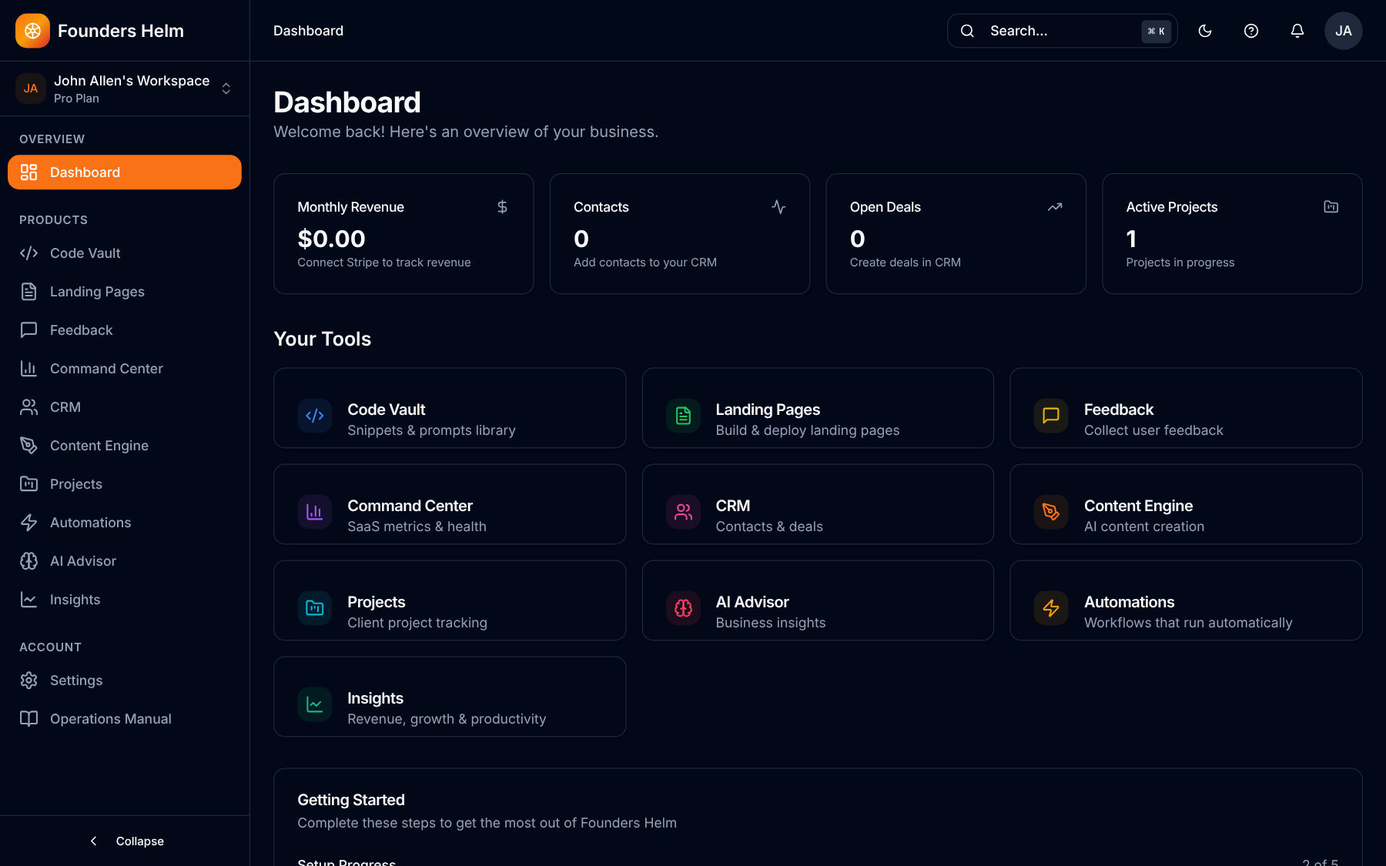
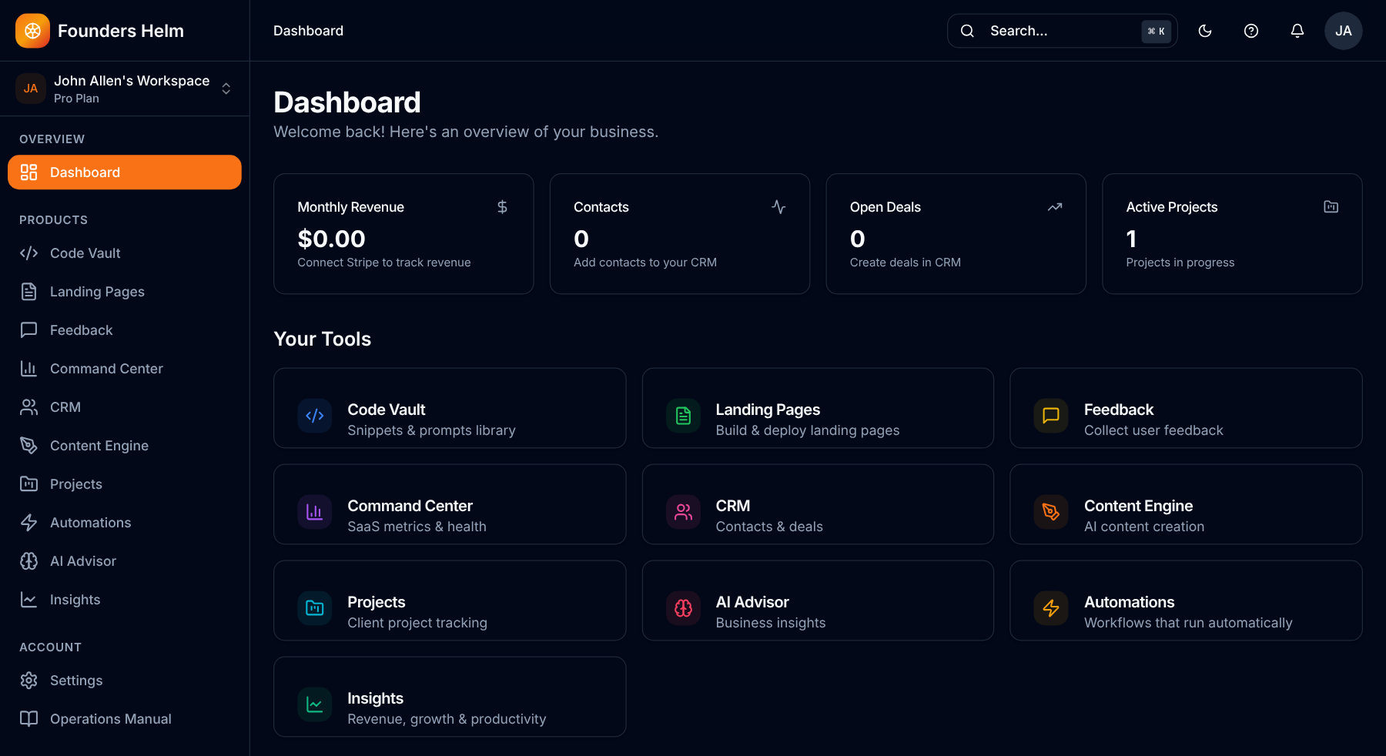
Enlarge chapter text and rebalance layouts
Standardize responsive chapter typography and give text more room beside code and screens. Wrap long code lines to avoid inaccessible horizontal scrolling, update the Founders Helm crop, and align e2e geometry and project guidance.

diff --git a/src/scenes/ProductChapter.jsx b/src/scenes/ProductChapter.jsx
@@ -8,6 +8,7 @@ import MediaLoop from '../components/MediaLoop.jsx';
 import { chapterTimeline } from './chapterTimeline.js';
 import { useSectionProgress } from './useSectionProgress.js';
 import { DESKTOP_MIN_WIDTH, EditorPanel, FlightEditor, flightGeometry, useImageFlight } from './flight.jsx';
+import { CHAPTER_BODY, CHAPTER_GRID, CHAPTER_LABEL, CHAPTER_TITLE } from './chapterType.js';
 
 /** @typedef {import('../content/excerpts/index.js').Excerpt} Excerpt */
 /** @typedef {(typeof products)[number]} Product */
@@ -58,11 +59,11 @@ export function countText(value, t) {
  */
 function Status({ product }) {
   if (product.status !== 'live' || !product.url) {
-    return <p className="mono mt-5 text-[11px] uppercase tracking-[0.25em] text-white/50">Coming soon</p>;
+    return <p className={`mt-5 tracking-[0.25em] text-white/60 ${CHAPTER_LABEL}`}>Coming soon</p>;
   }
   return (
     <div className="mt-5 flex flex-wrap items-center gap-x-5 gap-y-2">
-      <span className="mono flex items-center gap-2 text-[11px] uppercase tracking-[0.25em] text-white/70">
+      <span className={`flex items-center gap-2 tracking-[0.25em] text-white/70 ${CHAPTER_LABEL}`}>
         <span data-live-dot aria-hidden="true" className="relative flex h-2 w-2">
           <span className="absolute inline-flex h-full w-full rounded-full bg-ember opacity-60 motion-safe:animate-ping" />
           <span className="relative inline-flex h-2 w-2 rounded-full bg-ember" />
@@ -73,7 +74,7 @@ function Status({ product }) {
         href={product.url}
         target="_blank"
         rel="noopener noreferrer"
-        className="mono text-[11px] uppercase tracking-[0.25em] text-ember underline-offset-4 hover:underline focus-visible:underline"
+        className={`tracking-[0.25em] text-ember underline-offset-4 hover:underline focus-visible:underline ${CHAPTER_LABEL}`}
       >
         Open live site<span aria-hidden="true"> ↗</span>
         <span className="sr-only"> (opens in a new tab)</span>
@@ -91,20 +92,20 @@ function ProductText({ product, countT, compact = false }) {
   const stats = (product.stats ?? []).slice(0, COUNTERS_SHOWN);
   return (
     <div>
-      <h2 className="font-serif-display text-4xl italic leading-tight text-white sm:text-5xl">{product.name}</h2>
-      {!compact && <p className="mt-4 max-w-xl text-white/65">{product.tagline}</p>}
+      <h2 className={CHAPTER_TITLE}>{product.name}</h2>
+      {!compact && <p className={`mt-4 max-w-xl lg:max-w-none ${CHAPTER_BODY}`}>{product.tagline}</p>}
       <Status product={product} />
       {stats.length > 0 && (
         <ul className={`mt-6 grid border-t border-white/10 pt-5 ${compact ? 'grid-cols-4 gap-3' : 'grid-cols-2 gap-x-8 gap-y-5'}`}>
           {stats.map((stat) => (
             <li key={stat.label}>
-              <span className={`block font-serif-display leading-none text-white ${compact ? 'text-2xl' : 'text-4xl'}`}>
+              <span className={`block font-serif-display leading-none text-white ${compact ? 'text-2xl' : 'text-4xl lg:text-[length:clamp(2.25rem,min(3.3vw,6vh),3.75rem)]'}`}>
                 <span data-counter aria-hidden="true">
                   {countText(stat.number, countT)}
                 </span>
                 <span className="sr-only">{stat.number}</span>
               </span>
-              <span className="mono mt-2 block text-[10px] uppercase tracking-[0.2em] text-white/60">{stat.label}</span>
+              <span className={`mt-2 block tracking-[0.2em] text-white/60 ${compact ? 'mono text-[10px] uppercase' : CHAPTER_LABEL}`}>{stat.label}</span>
             </li>
           ))}
         </ul>
@@ -172,7 +173,7 @@ function StaticProductChapter({ product, excerpt, loop }) {
   return (
     <section
       data-product={product.slug}
-      className="relative z-10 mx-auto grid max-w-6xl gap-10 px-6 py-16 lg:grid-cols-[0.85fr_1.15fr] lg:items-center lg:px-10"
+      className={`relative z-10 mx-auto grid max-w-6xl gap-10 px-6 py-16 ${CHAPTER_GRID} lg:items-center lg:px-10`}
     >
       <ProductText product={product} countT={1} />
       <div className="min-w-0 space-y-6">
@@ -193,7 +194,7 @@ function ComingSoonChapter({ product, excerpt, animate }) {
   const { progress } = useSectionProgress(sectionRef, animate);
   const typed = TYPED_FROM + (TYPED_TO - TYPED_FROM) * (animate ? clamp01((progress - 0.1) / 0.8) : 1);
   const body = (
-    <div className="relative z-10 mx-auto grid w-full max-w-6xl gap-10 px-6 lg:grid-cols-[0.85fr_1.15fr] lg:items-center lg:px-10">
+    <div className={`relative z-10 mx-auto grid w-full max-w-6xl gap-10 px-6 ${CHAPTER_GRID} lg:items-center lg:px-10`}>
       <ProductText product={product} countT={1} />
       <div className="min-w-0">
         {excerpt && <EditorPanel excerpt={excerpt} visible={Math.round(excerpt.code.length * typed)} cursor />}

diff --git a/src/scenes/ServiceChapters.jsx b/src/scenes/ServiceChapters.jsx
@@ -10,6 +10,7 @@ import { SYNTAX_COLORS, tokenizeLine } from '../field/syntax.js';
 import { auditTimeline, chapterTimeline } from './chapterTimeline.js';
 import { useSectionProgress } from './useSectionProgress.js';
 import { DESKTOP_MIN_WIDTH, EditorPanel, FlightEditor, flightGeometry, useImageFlight } from './flight.jsx';
+import { CHAPTER_BODY, CHAPTER_GRID, CHAPTER_ITEM, CHAPTER_LABEL, CHAPTER_TITLE } from './chapterType.js';
 
 /** @typedef {import('../content/excerpts/index.js').Excerpt} Excerpt */
 /** @typedef {(typeof services)[number]} Service */
@@ -38,19 +39,19 @@ function css(color) {
 function ServiceText({ service, compact = false }) {
   return (
     <div>
-      <h2 className="font-serif-display text-4xl italic leading-tight text-white sm:text-5xl">{service.name}</h2>
-      <p className="mt-5 max-w-xl text-white/65">{service.summary}</p>
+      <h2 className={CHAPTER_TITLE}>{service.name}</h2>
+      <p className={`mt-5 max-w-xl lg:max-w-none ${CHAPTER_BODY}`}>{service.summary}</p>
       {!compact && (
         <ul className="mt-6 space-y-2 border-t border-white/10 pt-6">
           {service.scope.map((item) => (
-            <li key={item} className="flex items-start gap-3 text-sm text-white/55">
-              <span aria-hidden="true" className="mt-2 h-px w-4 shrink-0 bg-ember/70" />
+            <li key={item} className={`flex items-start gap-3 ${CHAPTER_ITEM}`}>
+              <span aria-hidden="true" className="mt-[0.7em] h-px w-4 shrink-0 bg-ember/70" />
               {item}
             </li>
           ))}
         </ul>
       )}
-      <p className="mono mt-6 text-xs uppercase tracking-[0.25em] text-ember">Timeline: {service.timeline}</p>
+      <p className={`mt-6 tracking-[0.25em] text-ember ${CHAPTER_LABEL}`}>Timeline: {service.timeline}</p>
     </div>
   );
 }
@@ -104,7 +105,7 @@ function StaticChapter({ service, excerpt, screen }) {
   return (
     <section
       data-chapter={service.slug}
-      className="relative z-10 mx-auto grid max-w-6xl gap-10 px-6 py-16 lg:grid-cols-[0.85fr_1.15fr] lg:items-center lg:px-10"
+      className={`relative z-10 mx-auto grid max-w-6xl gap-10 px-6 py-16 ${CHAPTER_GRID} lg:items-center lg:px-10`}
     >
       <ServiceText service={service} />
       <div className="min-w-0 space-y-6">
@@ -140,7 +141,7 @@ function AuditChapter({ service, excerpt, animate }) {
       </div>
       <pre
         style={{ fontSize, lineHeight: 1.46 }}
-        className="mono overflow-x-auto py-4 [font-variant-ligatures:none]"
+        className="mono whitespace-pre-wrap py-4 [font-variant-ligatures:none] [overflow-wrap:anywhere]"
       >
         {lines.map((line, row) => {
           const isChecked = row < checked;
@@ -155,7 +156,7 @@ function AuditChapter({ service, excerpt, animate }) {
               <span aria-hidden="true" className={`w-3 shrink-0 ${isChecked ? 'text-ember' : 'text-transparent'}`}>
                 ✓
               </span>
-              <span>
+              <span className="min-w-0">
                 {tokenizeLine(line).map((token, i) => (
                   <span key={i} style={{ color: css(SYNTAX_COLORS[token.kind]) }}>
                     {token.text}
@@ -174,7 +175,7 @@ function AuditChapter({ service, excerpt, animate }) {
     return (
       <section
         data-chapter={service.slug}
-        className="relative z-10 mx-auto grid max-w-6xl gap-10 px-6 py-16 lg:grid-cols-[0.85fr_1.15fr] lg:items-center lg:px-10"
+        className={`relative z-10 mx-auto grid max-w-6xl gap-10 px-6 py-16 ${CHAPTER_GRID} lg:items-center lg:px-10`}
       >
         <ServiceText service={service} />
         <div className="min-w-0">{panel}</div>
@@ -185,7 +186,7 @@ function AuditChapter({ service, excerpt, animate }) {
   return (
     <section ref={sectionRef} data-chapter={service.slug} className="relative h-[180vh]">
       <div className="pin-frame sticky top-0 flex items-center">
-        <div className="relative z-10 mx-auto grid w-full max-w-6xl gap-10 px-6 lg:grid-cols-[0.85fr_1.15fr] lg:items-center lg:px-10">
+        <div className={`relative z-10 mx-auto grid w-full max-w-6xl gap-10 px-6 ${CHAPTER_GRID} lg:items-center lg:px-10`}>
           <ServiceText service={service} />
           <div className="min-w-0">{panel}</div>
         </div>

diff --git a/src/scenes/TemplateChapter.jsx b/src/scenes/TemplateChapter.jsx
@@ -9,6 +9,7 @@ import { usePrefersReducedMotion } from '../field/environment.js';
 import MediaLoop from '../components/MediaLoop.jsx';
 import { useSectionProgress } from './useSectionProgress.js';
 import { DESKTOP_MIN_WIDTH, EditorPanel, FlightEditor, flightGeometry, useImageFlight } from './flight.jsx';
+import { CHAPTER_BODY, CHAPTER_GRID, CHAPTER_LABEL, CHAPTER_TITLE } from './chapterType.js';
 
 /** @typedef {import('../content/excerpts/index.js').Excerpt} Excerpt */
 /** @typedef {(typeof templates)[number]} Template */
@@ -50,16 +51,16 @@ function TemplateText({ template, compact = false }) {
   const [title, kind] = template.name.split(' — ');
   return (
     <div>
-      <p className="mono text-[11px] uppercase tracking-[0.25em] text-ember">{template.category}</p>
-      <h3 className="mt-3 font-serif-display text-4xl italic leading-tight text-white">{title}</h3>
-      <p className="mono mt-1 text-xs uppercase tracking-[0.2em] text-white/50">{kind}</p>
-      {!compact && <p className="mt-4 max-w-md text-white/70">{TEMPLATE_STORIES[template.id]}</p>}
+      <p className={`tracking-[0.25em] text-ember ${CHAPTER_LABEL}`}>{template.category}</p>
+      <h3 className={`mt-3 ${CHAPTER_TITLE}`}>{title}</h3>
+      <p className={`mt-2 tracking-[0.2em] text-white/60 ${CHAPTER_LABEL}`}>{kind}</p>
+      {!compact && <p className={`mt-4 max-w-md lg:max-w-none ${CHAPTER_BODY}`}>{TEMPLATE_STORIES[template.id]}</p>}
       {template.status === 'concept' && !compact && (
-        <p className="mono mt-4 text-[10px] uppercase tracking-[0.2em] text-white/60">Concept preview, coming soon</p>
+        <p className={`mt-4 tracking-[0.2em] text-white/60 ${CHAPTER_LABEL}`}>Concept preview, coming soon</p>
       )}
       <Link
         to={`/contact?template=${template.id}`}
-        className="mono mt-5 inline-flex items-center gap-2 rounded-full border border-ember/60 px-4 py-2 text-[11px] uppercase tracking-widest text-ember hover:bg-ember hover:text-black"
+        className={`mt-5 inline-flex items-center gap-2 rounded-full border border-ember/60 px-4 py-2 tracking-widest text-ember hover:bg-ember hover:text-black lg:px-5 lg:py-2.5 ${CHAPTER_LABEL}`}
       >
         Ask about this template<span aria-hidden="true"> ↗</span>
       </Link>
@@ -70,8 +71,10 @@ function TemplateText({ template, compact = false }) {
 function ChapterHeading() {
   return (
     <div>
-      <p className="mono text-[11px] uppercase tracking-[0.3em] text-ember">{TEMPLATE_CHAPTER.eyebrow}</p>
-      <h2 className="mt-3 font-serif-display text-3xl italic leading-tight text-white sm:text-4xl">{TEMPLATE_CHAPTER.title}</h2>
+      <p className={`tracking-[0.3em] text-ember ${CHAPTER_LABEL}`}>{TEMPLATE_CHAPTER.eyebrow}</p>
+      <h2 className="mt-3 font-serif-display text-3xl italic leading-tight text-white sm:text-4xl lg:text-[length:clamp(2.25rem,min(2.8vw,5vh),3rem)]">
+        {TEMPLATE_CHAPTER.title}
+      </h2>
     </div>
   );
 }
@@ -109,7 +112,7 @@ function TemplateSegment({ template, excerpt, local, active, visible, viewport, 
         <div className={compact ? 'mt-4' : 'mt-10'}>
           <TemplateText template={template} compact={compact} />
         </div>
-        <p className="mono mt-6 text-[11px] tracking-[0.25em] text-white/55">
+        <p className={`mt-6 tracking-[0.25em] text-white/60 ${CHAPTER_LABEL}`}>
           {index + 1} / {count}
         </p>
       </div>
@@ -188,7 +191,7 @@ export default function TemplateChapter({ includeDrafts }) {
     <section data-template-chapter className="relative z-10 mx-auto max-w-6xl space-y-16 px-6 py-16 lg:px-10">
       <ChapterHeading />
       {items.map(({ template, excerpt }) => (
-        <div key={template.id} data-door-b-template={template.id} className="grid gap-10 lg:grid-cols-[0.85fr_1.15fr] lg:items-center">
+        <div key={template.id} data-door-b-template={template.id} className={`grid gap-10 ${CHAPTER_GRID} lg:items-center`}>
           <TemplateText template={template} />
           <div className="min-w-0 space-y-6">
             <EditorPanel excerpt={excerpt} />

diff --git a/e2e/services.spec.js b/e2e/services.spec.js
@@ -66,7 +66,7 @@ test('a chapter with a screen flies its code onto that screen as the visitor scr
   await page.evaluate((y) => window.scrollTo(0, y), Math.round(top + span * 0.5));
   await expect(code).toHaveCSS('opacity', '0');
   const { width, height } = page.viewportSize() ?? { width: 0, height: 0 };
-  const stage = { x: Math.round(width * 0.42), y: Math.round(height * 0.14), width: Math.round(width * 0.54), height: Math.round(height * 0.74) };
+  const stage = { x: Math.round(width * 0.45), y: Math.round(height * 0.14), width: Math.round(width * 0.51), height: Math.round(height * 0.74) };
   await expect.poll(async () => visibleCodePixels(await page.screenshot({ clip: stage }))).toBeGreaterThan(400);
 
   await page.evaluate((y) => window.scrollTo(0, y), Math.round(top + span));
@@ -91,7 +91,7 @@ test('after a lost context is restored mid-flight, the fresh canvas keeps drawin
   await expect(page.locator('canvas[data-field="webgl"][data-ready="true"]:not([data-before-loss])')).toHaveCount(1);
 
   const { width, height } = page.viewportSize() ?? { width: 0, height: 0 };
-  const stage = { x: Math.round(width * 0.42), y: Math.round(height * 0.14), width: Math.round(width * 0.54), height: Math.round(height * 0.74) };
+  const stage = { x: Math.round(width * 0.45), y: Math.round(height * 0.14), width: Math.round(width * 0.51), height: Math.round(height * 0.74) };
   await expect.poll(async () => visibleCodePixels(await page.screenshot({ clip: stage }))).toBeGreaterThan(400);
 });
 

diff --git a/src/scenes/chapterType.js b/src/scenes/chapterType.js
@@ -1,0 +1,26 @@
+// @ts-check
+
+/**
+ * Type sizes for the words beside a chapter's code and screen (services, products, templates), so
+ * every chapter reads at the same size. On desktop the sizes grow with the window's width and are
+ * held back by its height, because a pinned chapter has to fit its words in one screen.
+ * Chris, 2026-11-10: the words beside the screens were half the size of the pictures.
+ */
+
+/** The chapter's title: the service, product or template name. */
+export const CHAPTER_TITLE =
+  'font-serif-display italic leading-[1.05] text-white text-4xl sm:text-5xl lg:text-[length:clamp(3rem,min(4.2vw,7.5vh),4.75rem)]';
+
+/** The chapter's description. */
+export const CHAPTER_BODY =
+  'leading-relaxed text-white/75 text-base sm:text-lg lg:text-[length:clamp(1.125rem,min(1.45vw,2.5vh),1.5rem)]';
+
+/** A list item under the description, such as a service's scope. */
+export const CHAPTER_ITEM =
+  'text-white/65 text-sm sm:text-base lg:text-[length:clamp(1rem,min(1.2vw,2.15vh),1.25rem)]';
+
+/** Small uppercase labels: timeline, category, status, counters' captions. */
+export const CHAPTER_LABEL = 'mono uppercase text-xs lg:text-[length:clamp(0.75rem,min(0.9vw,1.6vh),0.9375rem)]';
+
+/** The column split when the words sit beside the code in a grid (reduced motion, no WebGL). */
+export const CHAPTER_GRID = 'lg:grid-cols-[1fr_1fr]';

diff --git a/src/scenes/flight.jsx b/src/scenes/flight.jsx
@@ -26,8 +26,8 @@ export const DESKTOP_MIN_WIDTH = 1024;
 export function chapterLayout(w, h) {
   if (w >= DESKTOP_MIN_WIDTH) {
     return {
-      text: { x: w * 0.06, y: h * 0.18, w: w * 0.32, h: h * 0.64 },
-      stage: { x: w * 0.42, y: h * 0.14, w: w * 0.54, h: h * 0.74 },
+      text: { x: w * 0.06, y: h * 0.16, w: w * 0.36, h: h * 0.68 },
+      stage: { x: w * 0.45, y: h * 0.14, w: w * 0.51, h: h * 0.74 },
     };
   }
   return {
@@ -156,7 +156,8 @@ export function EditorPanel({ excerpt, visible = excerpt.code.length, cursor = f
       <div className="mono border-b border-white/10 px-4 py-2 text-[11px] tracking-widest text-white/60">
         {excerpt.file}
       </div>
-      <pre className="mono overflow-x-auto p-5 text-[13px] leading-[19px] [font-variant-ligatures:none]">
+      {/* Long lines wrap rather than scroll, so no part of the code is hidden from a keyboard (WCAG 2.1.1). */}
+      <pre className="mono whitespace-pre-wrap p-5 text-[13px] leading-[19px] [font-variant-ligatures:none] [overflow-wrap:anywhere]">
         <CodeLines code={excerpt.code} visible={visible} />
         {cursor && <span aria-hidden="true" data-cursor className="gate-cursor" />}
       </pre>

diff --git a/e2e/products.spec.js b/e2e/products.spec.js
@@ -47,7 +47,7 @@ test('the code lands on the poster, then the loop plays, and the live link has r
   await scrollChapter(page, chapter, 0.5);
   await expect(code).toHaveCSS('opacity', '0');
   const { width, height } = page.viewportSize() ?? { width: 0, height: 0 };
-  const stage = { x: Math.round(width * 0.42), y: Math.round(height * 0.14), width: Math.round(width * 0.54), height: Math.round(height * 0.74) };
+  const stage = { x: Math.round(width * 0.45), y: Math.round(height * 0.14), width: Math.round(width * 0.51), height: Math.round(height * 0.74) };
   await expect.poll(async () => visibleCodePixels(await page.screenshot({ clip: stage }))).toBeGreaterThan(400);
   expect(await video.evaluate((el) => /** @type {HTMLVideoElement} */ (el).paused)).toBe(true);
 

diff --git a/e2e/doorb.spec.js b/e2e/doorb.spec.js
@@ -19,7 +19,7 @@ async function scrollSection(page, section, share) {
 /** @param {import('@playwright/test').Page} page */
 async function stageCodePixels(page) {
   const { width, height } = page.viewportSize() ?? { width: 0, height: 0 };
-  const stage = { x: Math.round(width * 0.42), y: Math.round(height * 0.14), width: Math.round(width * 0.54), height: Math.round(height * 0.74) };
+  const stage = { x: Math.round(width * 0.45), y: Math.round(height * 0.14), width: Math.round(width * 0.51), height: Math.round(height * 0.74) };
   return visibleCodePixels(await page.screenshot({ clip: stage }));
 }
 

diff --git a/src/data/serviceScreens.js b/src/data/serviceScreens.js
@@ -17,7 +17,7 @@ export const serviceScreens = Object.freeze({
     src: '/media/services/founders-helm-dashboard.jpg',
     alt: 'The Founders Helm dashboard: revenue, contacts, deals and projects above its ten tools.',
     width: 1800,
-    height: 1125,
+    height: 982,
   },
   // Chris's own OpenRouter activity dashboard (2026-11-10), replacing the Crew Advisors concept art.
   'ai-integration': {

diff --git a/BLUEPRINT-SKY-REDESIGN.md b/BLUEPRINT-SKY-REDESIGN.md
@@ -22,7 +22,7 @@
 | 5 Door B, templates, previews | Complete; Door B copy approved by Chris (2026-11-09: "i love it") | `npm run verify` exit 0 (165/165 unit), `npm run test:e2e` 45/45; `/` identical except the footer's Templates column; main bundle 132.13 kB gzip |
 | 6 Your idea, builder, brief, nav, swap to `/` | Live; second review ("dead from How I Work down") addressed; builder excerpt approved | `npm run verify` exit 0 (216/216 unit), `npm run test:e2e` 67/67; main bundle 129.38 kB gzip (`Home` chunk 14.01 kB) |
 | 7 Inner pages, router, transitions, retirements | Complete, awaiting Chris's review | `npm run verify` exit 0 (222/222 unit), `npm run test:e2e` 74/74; main bundle 144.51 kB gzip (+15.1 kB, 14.5 kB of it the data router that view transitions need), `Home` chunk 13.74 kB, shared 9.86 kB, field 57.25 kB |
-| 8 Full-repo gates, performance, a11y, SEO | Complete, awaiting Chris's final review and the prerender decision | `npm run verify` exit 0 (222/222 unit, zero exclusions, budget OK), `npm run test:e2e` 94/94 (twice); entry script 145.48 kB gzip, `Home` 13.55 kB, field 57.25 kB, CSS 7.08 kB; Lighthouse desktop 98-100 every page |
+| 8 Full-repo gates, performance, a11y, SEO | Complete; post-phase changes (2026-11-10: AI integration screen, Founders Helm crop, larger chapter text) done; Chris ran `npm run verify` and `npm run test:e2e` on his machine: all passed (2026-11-10); prerender option (c) chosen, next | `npm run verify` exit 0 (222/222 unit, zero exclusions, budget OK), `npm run test:e2e` 94/94 (twice); entry script 145.48 kB gzip, `Home` 13.55 kB, field 57.25 kB, CSS 7.08 kB; Lighthouse desktop 98-100 every page |
 
 ## Session rules (replace the unavailable `blueprint-guardian` agent)
 
@@ -483,3 +483,16 @@ Recorded 2026-11-08 during Task 0.2.
 - Phase 8 verification: `npm run verify` exit 0 (lint, typecheck with zero exclusions, 222/222 unit, build, budget); `npm run test:e2e` 94/94, run twice.
 - AI integration screen (Chris, 2026-11-10: "change the image for AI Integration & OpenRouter Routing with this one … looks more accurate"): the chapter now lands on Chris's own OpenRouter activity dashboard, `public/media/services/openrouter-usage.jpg` (1260 x 796, cropped from his 1260 x 815 screenshot to drop the cut-off panel below; q90, 4:4:4, 177 KB). Chris approved showing his account's figures and masked key names. The Crew Advisors concept art `public/media/services/crew-advisors.jpg` is deleted (nothing else used it; the products page's `product-crew-advisors.jpg` is separate and unchanged). The alt text gives no dollar figure, keeping the services chapters free of `$` amounts.
 - e2e on Chris's machine (2026-11-10): 92 failures, every one `browserType.launch: Executable doesn't exist at …\ms-playwright\chromium_headless_shell-1254\…`. Playwright's browser had not been downloaded on Windows (`@playwright/test` 1.65.0, unchanged by Phase 8). Fix: `npx playwright install chromium` once, then `npm run test:e2e`. No code involved.
+- Founders Helm screen (Chris, 2026-11-10: "cut off this section. it should end right below operations manual and insights next to it"): `public/media/services/founders-helm-dashboard.jpg` cropped to 1800 x 982, ending 25 px under the Insights card's border, so the "Getting Started" panel and the sidebar's Collapse row are gone; `serviceScreens.js` records the new height. Re-encoded from the stored JPEG (no original was kept), q90, 4:4:4, 160 KB.
+- Chapter text (Chris, 2026-11-10: the words beside the screens were half the size of the pictures; "all of them"): `src/scenes/chapterType.js` holds the sizes for the words beside every home-page chapter's code and screen (services, products, templates): `CHAPTER_TITLE`, `CHAPTER_BODY`, `CHAPTER_ITEM`, `CHAPTER_LABEL`, `CHAPTER_GRID`. On desktop they grow with the window's width, capped by its height so a pinned chapter still fits one screen (title 48 px at 1024 x 768, 60 px at 1440 x 900, 76 px from 1920 x 1080; description 18 to 24 px). Phones are essentially unchanged (labels 11 px to 12 px). The desktop layout in `flight.jsx` `chapterLayout` gives the words more room: text 6 to 42 percent of the width (was 6 to 38), stage 45 to 96 percent (was 42 to 96), text from 16 percent of the height. Static chapters (reduced motion, no WebGL) split 1:1 (was 0.85:1.15). The four e2e tests that pin the stage geometry use the new fractions. Measured at 1024 x 768, 1280 x 720, 1366 x 768, 1440 x 900, 1920 x 1080, 2560 x 1440, 390 x 844 and 768 x 1024: every chapter's words end inside the pinned frame (lowest 602 of 900; on phones they end above the stage).
+- Found by the axe test after the 1:1 split: the code panel beside a chapter (`EditorPanel`) and the audit chapter's code scrolled sideways when a line was wider than the narrower column, a scroll region a keyboard cannot reach (WCAG 2.1.1). Long lines now wrap (`whitespace-pre-wrap`, `overflow-wrap: anywhere`) instead of scrolling. A focusable `tabIndex` was tried first and refused by lint (`jsx-a11y/no-noninteractive-tabindex`); wrapping keeps every character visible without a scroll region.
+- `CLAUDE.md` (Chris asked, 2026-11-10): the stale "`npm run build` is the only validation script" is replaced by the real script list (`verify`, `lint`, `typecheck`, `test`, `build`, `budget`, `test:e2e` with the `npx playwright install chromium` note, `excerpts:verify`, `media:*`); the product-image summary now says loops come first; new notes on service screens and chapter text; if the blueprint-guardian agent is unavailable, the blueprint's Session rules stand in.
+- Verification: `npm run verify` exit 0 (222/222, budget: entry script 145.48 kB, CSS 7.31, `Home` 13.83, field 57.25, other 9.06); `npm run test:e2e` 94/94; screenshots of the AI integration, custom builds, UnderFire and template chapters at 1440 x 900, MVP at 1366 x 768, Crew Advisors at 1280 x 720, and AI integration on a phone.
+
+## Next session starts here (2026-11-10)
+
+- Everything above is synced to Chris's machine; nothing is committed. Chris commits and deploys.
+- Done by Chris 2026-11-10 (all tests passed): `npm install` (Phase 8 added `@axe-core/playwright` and `@fontsource/space-grotesk`), `npx playwright install chromium` (his machine had no Playwright browser: the 92 e2e failures), `npm run verify`, `npm run test:e2e`. Commit `package-lock.json` this time (new dependencies).
+- Prerender decision (Chris, 2026-11-10: "might as well do c now while im doing changes"): option (c), full per-route HTML prerender, is the next piece of work. It is not started. Plan it as its own phase in this file before writing code (spec section 11), and work it in sections with a stop between each. What it must deliver: every route in `vercel.json`'s rewrite and `public/sitemap.xml` built to its own HTML at `npm run build`, with that route's own title, description, canonical, Open Graph and JSON-LD and its real content, so link previews, AI crawlers and JavaScript-off visitors see the right page, and phones paint content before the bundle runs. What to watch, found in this phase: the door choice lives in `sessionStorage` and the field, Lenis and the renderer exist only in the browser, so the prebuilt HTML must render the state a first visit sees (no door chosen; CSS field) and the browser must take over without a mismatch or a flash; `usePageMeta` sets head tags at runtime today; the e2e SEO test (`e2e/seo.spec.js`) currently expects the home head on every route with JavaScript off and must be changed to expect each route's own head; the budget and the Lighthouse runs above are the before numbers to compare against. Keep `npm run verify` and `npm run test:e2e` passing at every section.
+- Known limitations carried: no-WebGL visitors see one layout shift on the gate; mobile LCP 2.9 to 5.0 s on emulated mobile (option c addresses it); Phase 2 Step 3 (frame-time measurement on real devices) was never done.
+- Session mechanics that worked: build and test in the cloud workspace copy, never run `npm install` in Chris's folder; copy files back with CRLF line endings; verify by per-file hash with CR stripped (images by pixel hash); run `excerpts:verify` on Chris's machine with `EXCERPT_REPOS` pointing at the mounted My-Teachers-Toolbox and `.`; three product repos are not mounted, so seven excerpts are skipped there.

diff --git a/CLAUDE.md b/CLAUDE.md
@@ -9,15 +9,8 @@
 
 **After completing any phase or batch, invoke it again to verify completion and get the next step.**
 
-## Product Images
-
-**Before adding or replacing any product image, read `docs/PRODUCT-IMAGES.md` first.**
-
-Short version: one `image` field in `src/data/products.js` drives all three surfaces (home grid,
-`/products` grid, `/products/<slug>` hero). Source must be **4:3**. Save as
-`public/images/products/product-<slug>.jpg` at q90 / `subsampling=0`. Watch for `video` and
-`showcaseImage` — both silently override `image`. Verify with `npm run build` (only validation
-script in this repo).
+If the agent is not available in the session, follow the "Session rules" section of the master
+blueprint instead; they were written to stand in for it.
 
 ## Master Blueprint
 
@@ -25,3 +18,42 @@ The master blueprint for the current redesign is the file named below. Read its 
 ```
 Blueprint: BLUEPRINT-SKY-REDESIGN.md
 ```
+
+## Validation
+
+This repo uses npm. The scripts that exist in `package.json`:
+
+- `npm run verify` — the full gate: lint, typecheck, unit tests, build, then the size budget. Run it after every change.
+- `npm run lint` — ESLint with zero warnings allowed. Inline `eslint-disable` comments are turned off by config.
+- `npm run typecheck` — `tsc`, with `checkJs` on for every file and no exclusion list.
+- `npm test` — Vitest unit tests.
+- `npm run build` — Vite production build.
+- `npm run budget` — fails if the gzip size of the entry script, entry CSS, home chunk, renderer chunk or any other chunk passes its limit (`tools/budget/check.mjs`).
+- `npm run test:e2e` — Playwright browser tests, including accessibility (`e2e/a11y.spec.js`) and SEO (`e2e/seo.spec.js`). Run it whenever a change touches routes, scenes or the renderer. On a new machine, or after Playwright is updated, run `npx playwright install chromium` once first, or every test fails with "Executable doesn't exist".
+- `npm run excerpts:verify` — checks every code excerpt on the site still matches its source repo at the recorded commit.
+- `npm run media:capture` and `npm run media:loops` — capture product screens and build their loops.
+
+Chris runs `npm install` himself after any change to dependencies.
+
+## Product Images
+
+**Before adding or replacing any product image, read `docs/PRODUCT-IMAGES.md` first.**
+
+Short version: a product with a real-screen loop (`previewVideo` + `poster` in
+`src/data/products.js`) shows the loop on the home page chapter, the `/products` grid and its
+`/products/<slug>` hero; `image` is the fallback for a product without one. An `image` must be
+**4:3**, saved as `public/images/products/product-<slug>.jpg` at q90 / `subsampling=0`. On the
+detail page `showcaseImage` overrides `image`. Verify with `npm run verify`.
+
+## Service Screens
+
+The screen each home-page service chapter's code lands on is set in `src/data/serviceScreens.js`
+(`src`, `alt`, and the image's real `width` and `height`; files under `public/media/services/`, at
+most 400 KB, JPEG q90 / `subsampling=0`). The alt text names no dollar amounts: services show no
+prices.
+
+## Chapter Text
+
+The words beside a home-page chapter's code and screen (services, products, templates) take their
+sizes from `src/scenes/chapterType.js`, so every chapter reads at the same size. Change a size there,
+not in one chapter.
